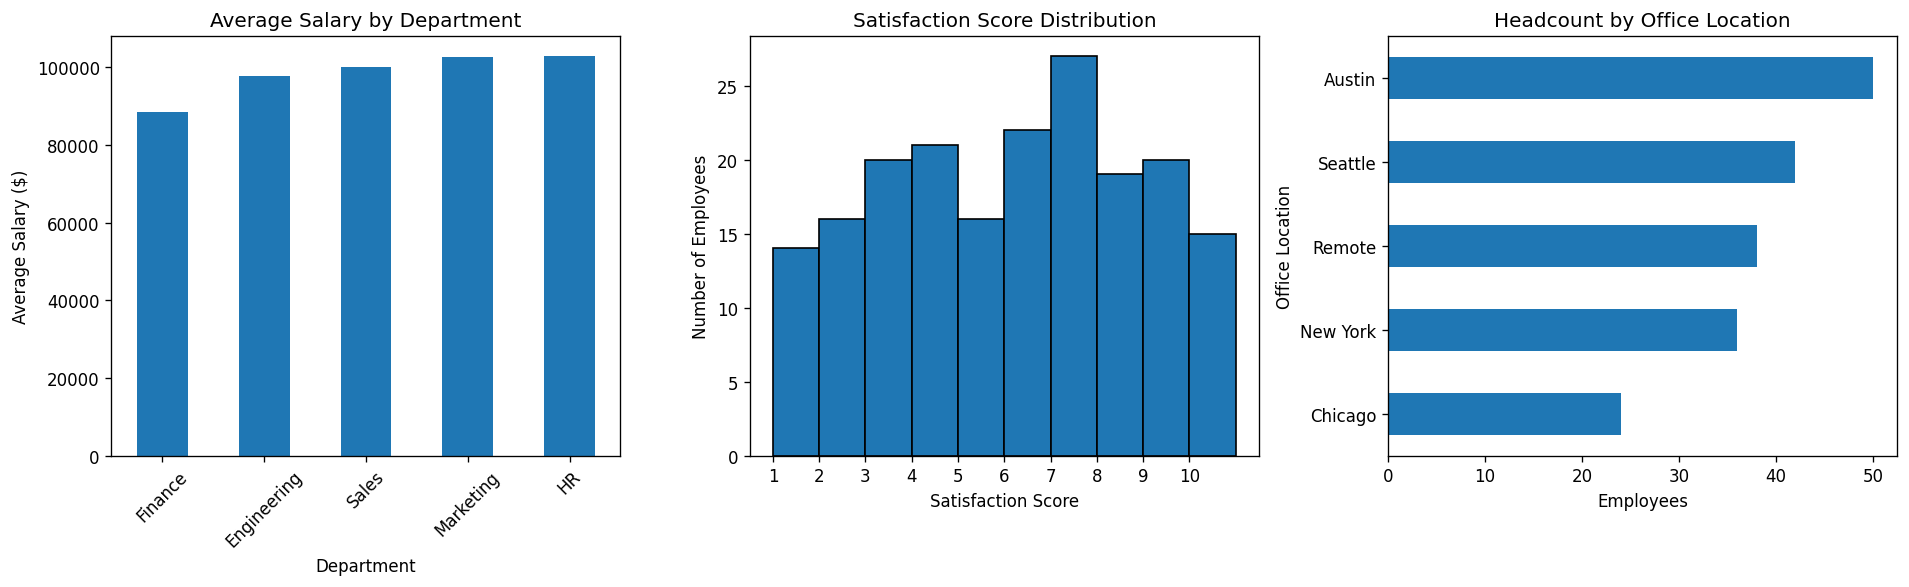
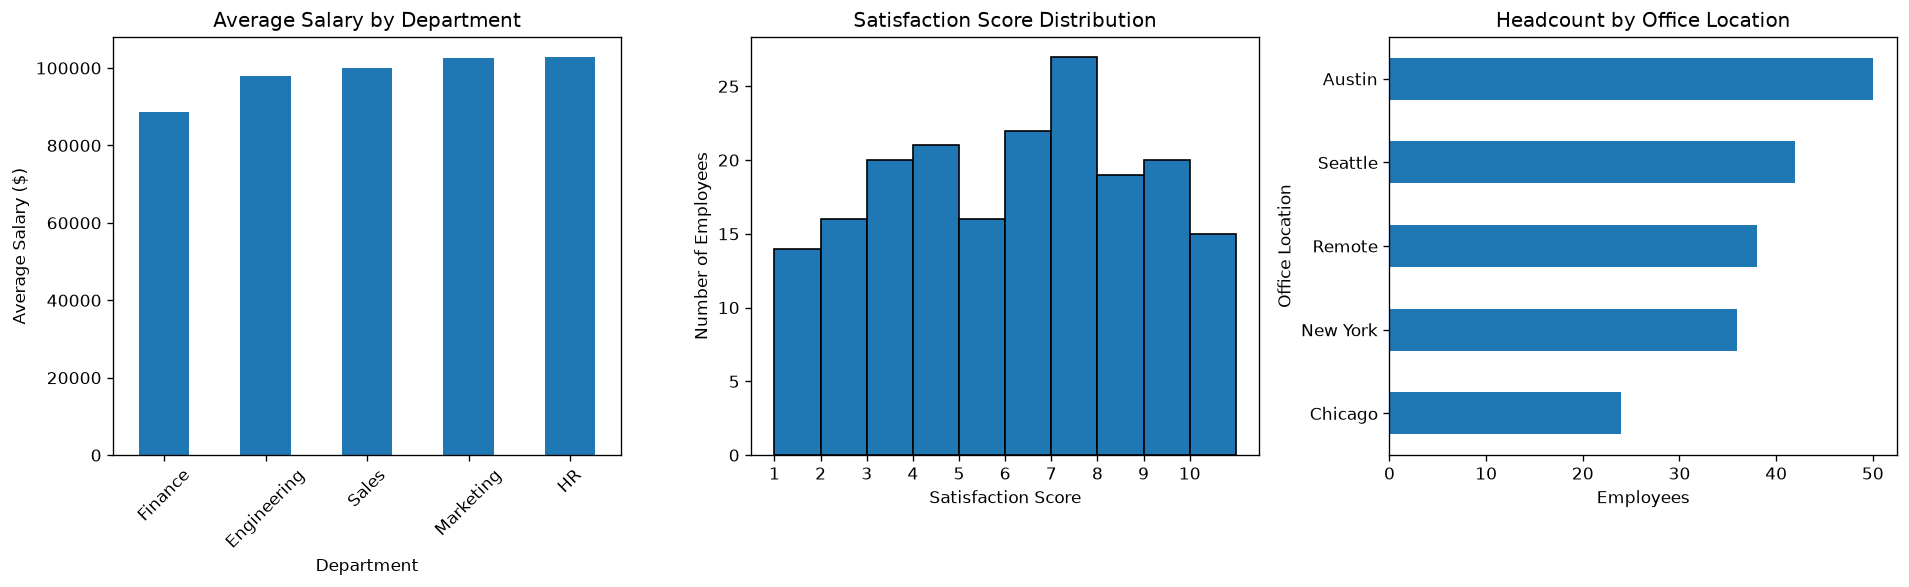
Module Project: Data Processing Pipeline

diff --git a/module-final-projects/module_2_project_data_processing_pipeline/pipeline.py b/module-final-projects/module_2_project_data_processing_pipeline/pipeline.py
@@ -2,6 +2,7 @@ import os
 import re
 
 import matplotlib
+
 matplotlib.use("Agg")
 import matplotlib.pyplot as plt
 import pandas as pd
@@ -154,10 +155,9 @@ class DataPipeline:
             df[column] = df[column].fillna(department_median)
             df[column] = df[column].fillna(df[column].median())
 
-        # If a date could not be parsed, use the median valid survey date.
+        # Fill missing dates with the median of the valid survey dates.
         if df["survey_date"].isna().any() and df["survey_date"].notna().any():
-            valid_dates = df["survey_date"].dropna().sort_values().reset_index(drop=True)
-            median_date = valid_dates.iloc[len(valid_dates) // 2]
+            median_date = df["survey_date"].dropna().median()
             df["survey_date"] = df["survey_date"].fillna(median_date)
 
         missing_after_fill = int(df.isna().sum().sum())

diff --git a/module-final-projects/module_2_project_data_processing_pipeline/README.md b/module-final-projects/module_2_project_data_processing_pipeline/README.md
@@ -1,12 +1,11 @@
 # Module 2 Project: Employee Survey Data Pipeline
 
-## Overview
+# Overview
 
 This project uses Python, pandas, regular expressions, object-oriented programming, and matplotlib to clean and analyze a messy employee survey dataset.
-
 The pipeline loads the raw CSV, removes duplicate employees, standardizes inconsistent text, fixes invalid numeric values, handles missing data, parses multiple date formats, calculates summary statistics, creates charts, and exports a cleaned CSV.
 
-## Project Structure
+# Project Structure
 
 ```text
 module_02_project/
@@ -21,7 +20,7 @@ module_02_project/
 └── README.md
 ```
 
-## Setup
+# Setup
 
 Install the required packages:
 
@@ -35,7 +34,7 @@ Run the project:
 python main.py
 ```
 
-## Cleaning Strategy
+# Cleaning Strategy
 
 The `DataPipeline.clean()` method handles the dataset one column at a time.
 
@@ -49,11 +48,10 @@ The `DataPipeline.clean()` method handles the dataset one column at a time.
 - `survey_date`: three formats are supported: `MM/DD/YYYY`, `YYYY-MM-DD`, and `DD-MM-YYYY`.
 - `comments`: missing comments become `No comment provided`.
 
-For missing numeric values, I fill with the median for that employee's department first. If a department does not have enough data, the overall median is used. This keeps the employee row while avoiding a single extreme value having too much influence on the replacement value.
-
+For missing numeric values, I fill with the median for that employee's department first. If a department has no valid values for that column, I use the overall median instead. This keeps the employee row while avoiding a single extreme value having too much influence on the replacement value.
 If a survey date cannot be parsed, the median valid survey date is used. Missing text categories become `Unknown`.
 
-## Analysis
+# Analysis
 
 The project calculates:
 
@@ -63,7 +61,7 @@ The project calculates:
 4. Pearson correlation between years of experience and salary
 5. Average satisfaction score by office location
 
-## Visualizations
+# Visualizations
 
 `output/charts.png` contains:
 
@@ -71,14 +69,12 @@ The project calculates:
 - Satisfaction score histogram
 - Headcount by office location horizontal bar chart
 
-## Dataset Results
+# Dataset Results
 
 The raw dataset contains 200 rows. Cleaning removes 10 duplicate employee IDs, leaving 190 employees.
-
 In this dataset, 10 negative salary values are treated as invalid and repaired through the missing-value strategy. There are also invalid satisfaction scores outside the 1-10 range.
-
 One useful result from the analysis is that the correlation between years of experience and salary is very close to zero in this fictional dataset, so more experience does not appear strongly associated with higher salary here.
 
-## Error Handling
+# Error Handling
 
 The pipeline uses `try/except` around file loading and output operations. Numeric conversions use safe conversion logic so unexpected strings become missing values instead of crashing the program. The pipeline also checks whether data loaded successfully before cleaning, analyzing, visualizing, or exporting.
